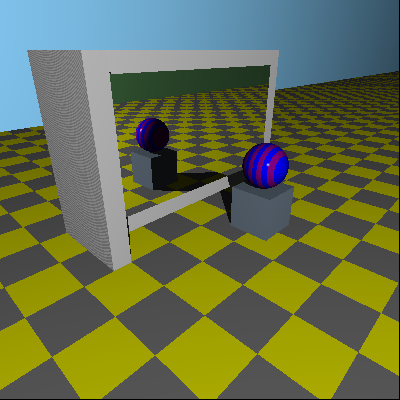
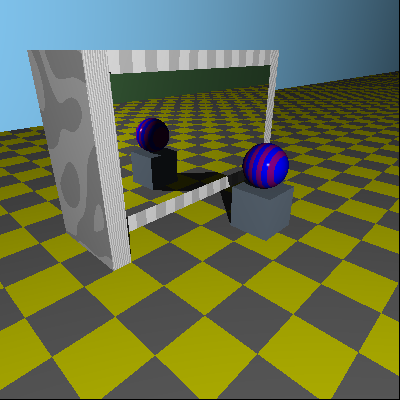
updates

Changed region(s): [[0.21, 0.12, 0.57, 0.69], [0.33, 0.12, 0.69, 0.36]]

diff --git a/main.go b/main.go
@@ -544,12 +544,8 @@ func mirror() {
 	// border
 	borderStripes := tracer.NewStripedPattern(
 		tracer.ColorName(colornames.Lightgray), tracer.ColorName(colornames.White))
-	// borderStripes.SetTransform(tracer.IdentityMatrix().Scale(0.01, 1, 1).RotateY(math.Pi / 2))
-	borderStripes.SetTransform(tracer.IdentityMatrix().Scale(0.01, 1, 1))
-	// borderP := tracer.NewPertrubedPattern(borderStripes, 0.1)
-	borderP := borderStripes
-	// this produces a completely different pattern than applying the transform on the inner pattern
-	// borderP.SetTransform(tracer.IdentityMatrix().Scale(0.1, 1, 1).RotateY(math.Pi / 2))
+	borderStripes.SetTransform(tracer.IdentityMatrix().Scale(0.1, 1, 1).RotateY(math.Pi / 2))
+	borderP := tracer.NewPertrubedPattern(borderStripes, 0.1)
 
 	// top border
 	topBorder := tracer.NewUnitCube()
@@ -565,7 +561,7 @@ func mirror() {
 
 	// left border
 	leftBorder := tracer.NewUnitCube()
-	leftBorder.SetTransform(tracer.IdentityMatrix().Scale(1, 1.9, 0.2).Translate(-2, 1.9, -3.2))
+	leftBorder.SetTransform(tracer.IdentityMatrix().Scale(0.01, 1.9, 0.2).Translate(-2, 1.9, -3.2))
 	leftBorder.Material().SetPattern(borderP)
 	w.AddObject(leftBorder)
 
